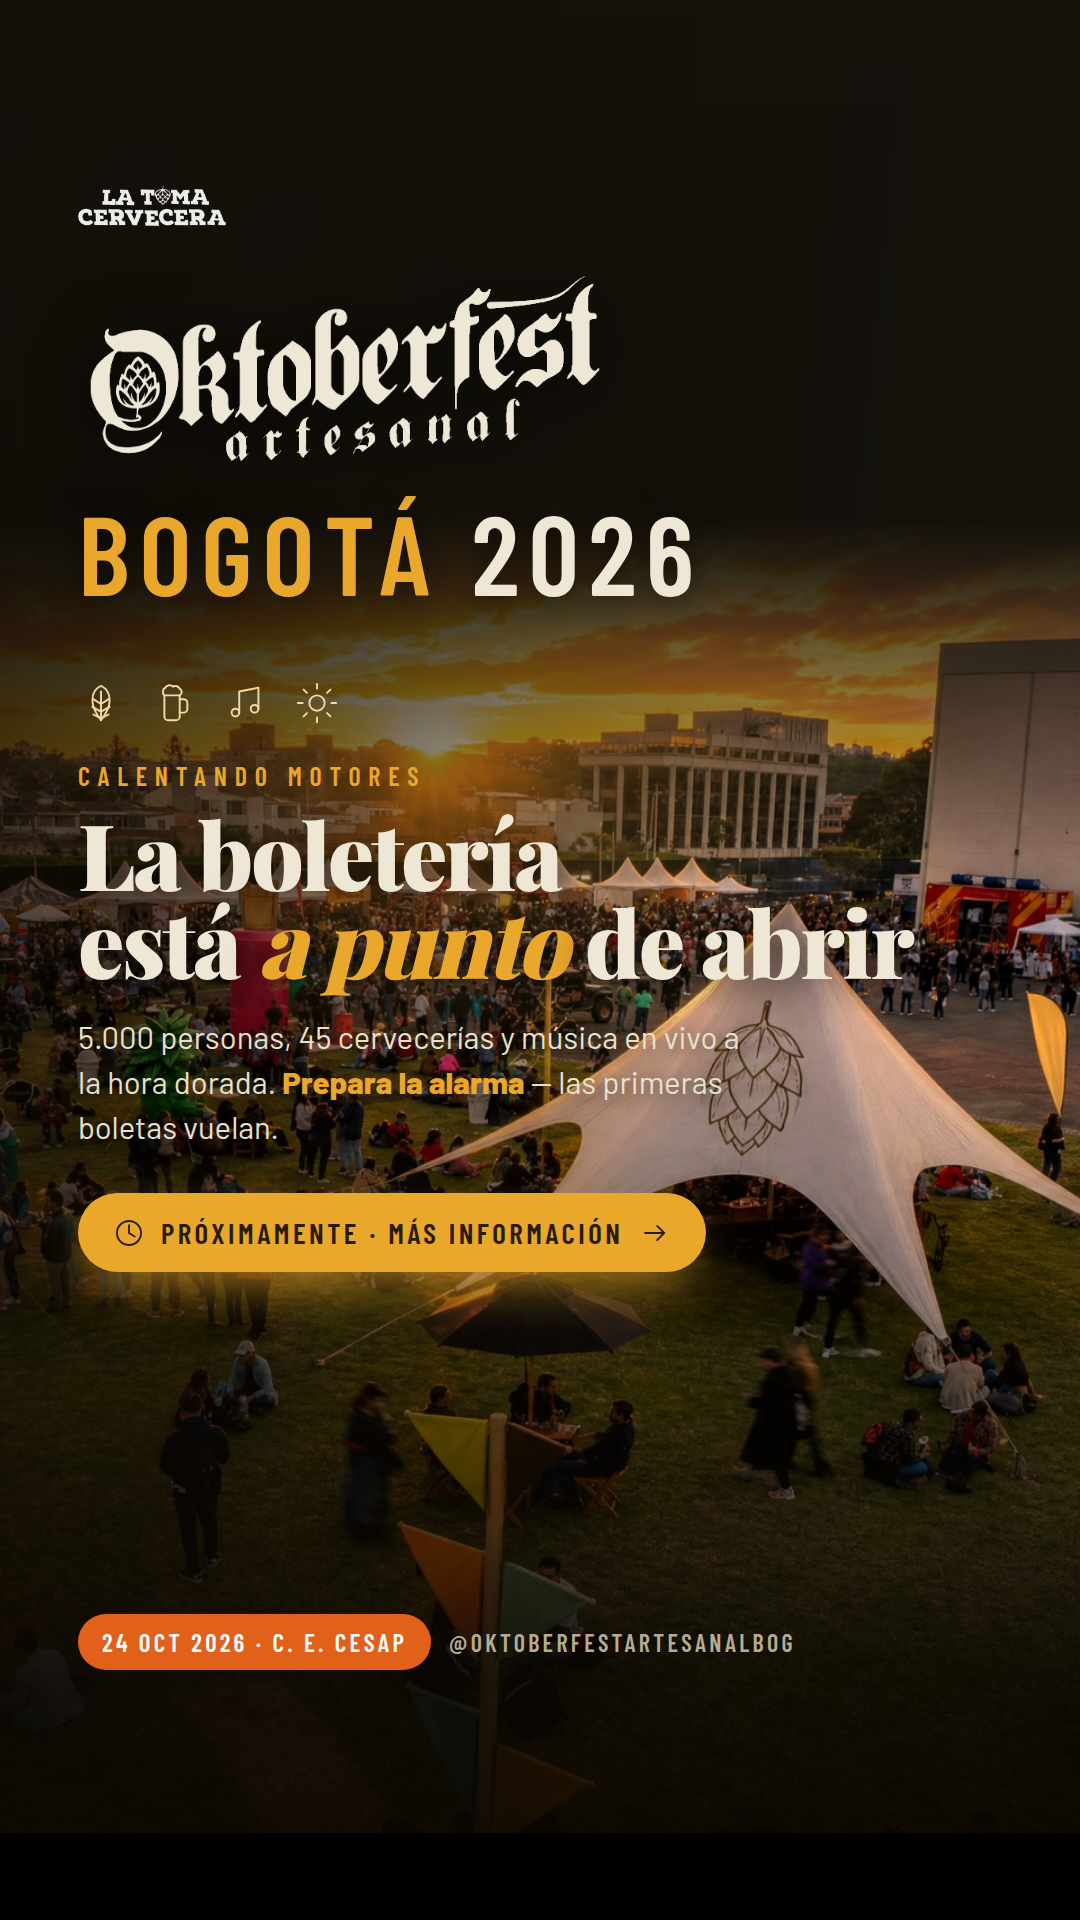
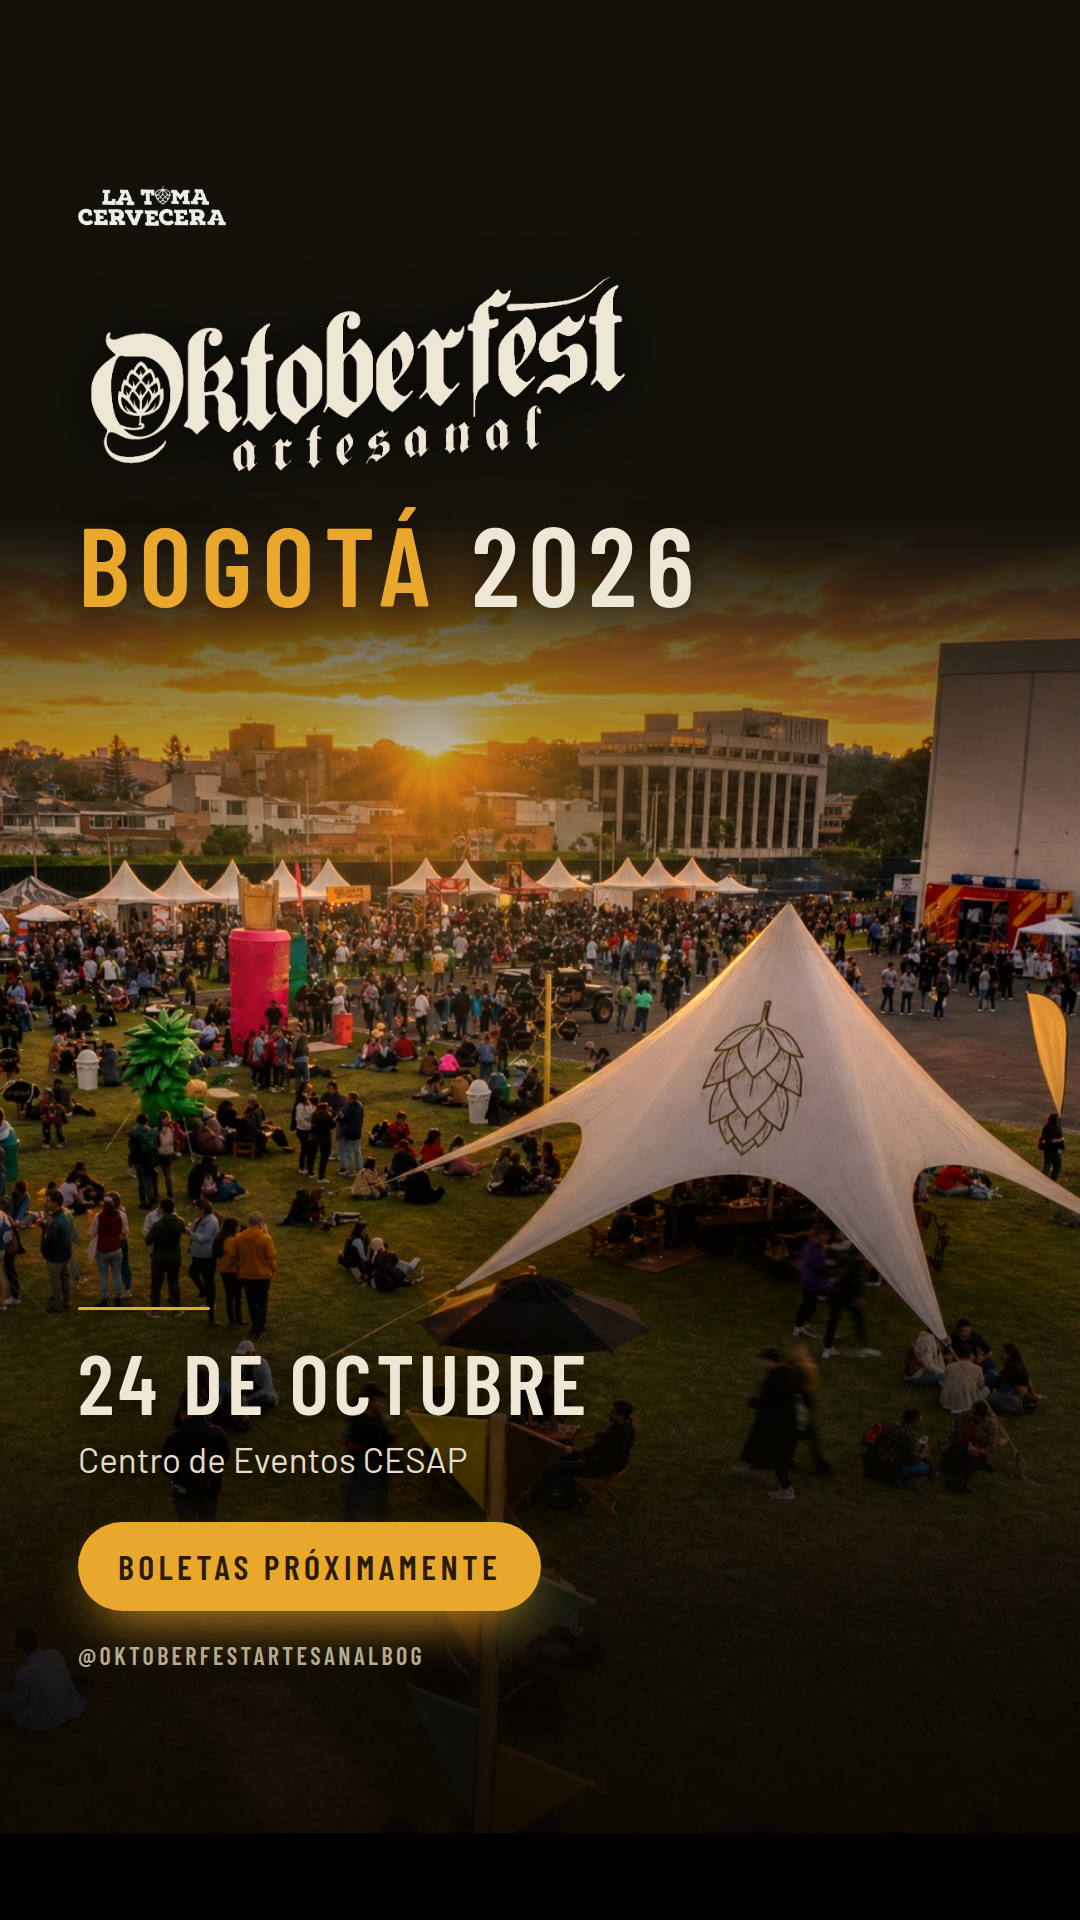
design(bogota): historia al minimo comercial
Fuera el titular, el cuerpo de texto, el eyebrow y la fila de pictogramas.
Quedan cuatro datos: logotipo, Bogota 2026, fecha y lugar, y la pildora
"Boletas proximamente". Con menos tipografia se aligeran los velos y la
imagen madre recupera el atardecer completo.

Claude-Session: https://claude.ai/code/session_01FhN5se13VDhwY8xPmLCBMM

Changed region(s): [[0.0, 0.125, 0.8556, 0.875]]

diff --git a/historias-bogota/historia-boleteria.html b/historias-bogota/historia-boleteria.html
@@ -28,53 +28,39 @@ img{display:block;}
 .photo img{width:100%;height:100%;object-fit:cover;object-position:55% center;
   filter:saturate(1.08) contrast(1.04);}
 
-/* Calor del ocaso + velos de contraste (regla: nunca tipografía sobre cielo limpio) */
+/* Calor del ocaso + velos de contraste, ahora mínimos: hay poca tipografía */
 .glow{position:absolute;inset:0;
-  background:radial-gradient(58% 24% at 40% 41%,rgba(244,196,90,.26),transparent 72%);}
+  background:radial-gradient(58% 24% at 40% 41%,rgba(244,196,90,.24),transparent 72%);}
 .veil{position:absolute;inset:0;background:
-  linear-gradient(180deg,rgba(20,17,11,.94) 0%,rgba(20,17,11,.62) 20%,rgba(20,17,11,.12) 36%,transparent 46%),
-  linear-gradient(96deg,rgba(12,8,3,.72) 0%,rgba(12,8,3,.38) 34%,rgba(12,8,3,.06) 62%,transparent 80%),
-  linear-gradient(0deg,rgba(10,6,2,.96) 0%,rgba(10,6,2,.84) 13%,rgba(10,6,2,.34) 30%,transparent 46%);}
+  linear-gradient(180deg,rgba(20,17,11,.94) 0%,rgba(20,17,11,.60) 20%,rgba(20,17,11,.10) 36%,transparent 46%),
+  linear-gradient(0deg,rgba(10,6,2,.96) 0%,rgba(10,6,2,.86) 16%,rgba(10,6,2,.40) 33%,transparent 48%);}
 
 .in{position:absolute;inset:0;z-index:3;display:flex;flex-direction:column;
   padding:186px 78px 250px;}
 
 /* ── Masthead: sello productor · logotipo · ciudad ── */
 .sello{align-self:flex-start;height:40px;width:auto;opacity:.92;}
-.brand{align-self:flex-start;width:534px;height:auto;margin-top:36px;
+.brand{align-self:flex-start;width:560px;height:auto;margin-top:36px;
   filter:drop-shadow(0 8px 30px rgba(0,0,0,.75));}
 .city{margin-top:26px;font-family:'Barlow Condensed',Barlow,sans-serif;font-weight:700;
   font-size:112px;line-height:.9;letter-spacing:.085em;text-transform:uppercase;color:var(--gold);
   text-shadow:0 6px 34px rgba(0,0,0,.6);}
 .city span{color:var(--cream);}
 
-/* ── Mensaje ── */
-.msg{margin-top:78px;}
-.picto{display:flex;gap:26px;color:#F4D9A8;}
-.picto svg{width:46px;height:46px;}
-.eyebrow{margin-top:34px;font-family:'Barlow Condensed',Barlow,sans-serif;font-size:26px;font-weight:600;
-  letter-spacing:.3em;text-transform:uppercase;color:var(--gold);}
-h1{margin-top:18px;font-family:'Playfair Display',Georgia,serif;font-weight:900;
-  font-size:92px;line-height:.96;letter-spacing:-.025em;
-  text-shadow:0 6px 38px rgba(0,0,0,.65);}
-h1 em{font-style:italic;color:var(--gold);}
-.lede{margin-top:28px;max-width:680px;font-size:31px;line-height:1.46;color:#E8E1CE;
-  text-shadow:0 3px 20px rgba(0,0,0,.75);}
-.lede b{color:var(--gold);font-weight:700;}
-
-.cta{margin-top:44px;display:inline-flex;align-self:flex-start;align-items:center;gap:15px;
-  background:var(--gold);color:#2A1B06;border-radius:999px;padding:22px 34px;
+/* ── Cierre: cuándo, dónde y boletas ── */
+.foot{margin-top:auto;}
+.rule{width:132px;height:3px;background:var(--gold);border-radius:2px;}
+.when{margin-top:30px;font-family:'Barlow Condensed',Barlow,sans-serif;font-weight:700;
+  font-size:84px;line-height:1;letter-spacing:.055em;text-transform:uppercase;color:var(--cream);
+  text-shadow:0 5px 30px rgba(0,0,0,.8);}
+.where{margin-top:14px;font-size:35px;line-height:1.25;color:#E4DCC8;
+  text-shadow:0 3px 20px rgba(0,0,0,.8);}
+.tickets{margin-top:40px;display:inline-flex;align-items:center;
+  background:var(--gold);color:#2A1B06;border-radius:999px;padding:24px 40px;
   box-shadow:0 22px 54px -18px rgba(233,167,44,.95);}
-.cta svg{width:34px;height:34px;flex:none;}
-.cta span{font-family:'Barlow Condensed',Barlow,sans-serif;font-size:29px;font-weight:700;
-  letter-spacing:.12em;text-transform:uppercase;white-space:nowrap;}
-
-/* ── Pie: fecha y canal ── */
-.foot{margin-top:auto;display:flex;align-items:center;gap:18px;flex-wrap:wrap;}
-.dt{font-family:'Barlow Condensed',Barlow,sans-serif;font-size:25px;font-weight:700;
-  letter-spacing:.13em;text-transform:uppercase;color:#fff;background:var(--ember);
-  border-radius:999px;padding:13px 24px;}
-.handle{font-family:'Barlow Condensed',Barlow,sans-serif;font-size:24px;font-weight:600;
+.tickets span{font-family:'Barlow Condensed',Barlow,sans-serif;font-size:34px;font-weight:700;
+  letter-spacing:.13em;text-transform:uppercase;white-space:nowrap;}
+.handle{margin-top:30px;font-family:'Barlow Condensed',Barlow,sans-serif;font-size:24px;font-weight:600;
   letter-spacing:.14em;text-transform:uppercase;color:var(--cream-soft);}
 </style>
 
@@ -88,18 +74,12 @@ h1 em{font-style:italic;color:var(--gold);}
[1 lines of base64/hex data omitted]
     <div class="city">Bogotá <span>2026</span></div>
 
-    <div class="msg">
-      <div class="picto"><svg viewBox="0 0 48 48" fill="none" stroke="currentColor" stroke-width="2" stroke-linecap="round" stroke-linejoin="round"><path d="M24 6c6 3 9 8 9 15 0 9-6 17-9 21-3-4-9-12-9-21 0-7 3-12 9-15z"/><path d="M24 12v30M16 20l8 5 8-5M15 28l9 5 9-5M16 36l8 4 8-4"/></svg><svg viewBox="0 0 48 48" fill="none" stroke="currentColor" stroke-width="2" stroke-linecap="round" stroke-linejoin="round"><path d="M15 16h16v22a4 4 0 0 1-4 4H19a4 4 0 0 1-4-4z"/><path d="M31 20h4a4 4 0 0 1 4 4v6a4 4 0 0 1-4 4h-4"/><path d="M15 16a5 5 0 0 1 1-8 5 5 0 0 1 8-1 5 5 0 0 1 7 2 4 4 0 0 1 0 7"/></svg><svg viewBox="0 0 48 48" fill="none" stroke="currentColor" stroke-width="2" stroke-linecap="round" stroke-linejoin="round"><path d="M18 34V12l20-4v22"/><circle cx="14" cy="34" r="4"/><circle cx="34" cy="30" r="4"/></svg><svg viewBox="0 0 48 48" fill="none" stroke="currentColor" stroke-width="2" stroke-linecap="round" stroke-linejoin="round"><circle cx="24" cy="24" r="8"/><path d="M24 4v5M24 39v5M4 24h5M39 24h5M10 10l3.5 3.5M34.5 34.5 38 38M38 10l-3.5 3.5M13.5 34.5 10 38"/></svg></div>
-      <div class="eyebrow">Calentando motores</div>
-      <h1>La boletería<br>está <em>a punto</em> de abrir</h1>
-      <p class="lede">5.000 personas, 45 cervecerías y música en vivo a la hora dorada.
-        <b>Prepara la alarma</b> — las primeras boletas vuelan.</p>
-      <div class="cta"><svg viewBox="0 0 48 48" fill="none" stroke="currentColor" stroke-width="2.6" stroke-linecap="round" stroke-linejoin="round"><circle cx="24" cy="24" r="17"/><path d="M24 13v11l8 5"/></svg><span>Próximamente · Más información</span><svg viewBox="0 0 48 48" fill="none" stroke="currentColor" stroke-width="2.6" stroke-linecap="round" stroke-linejoin="round"><path d="M10 24h27M27 14l10 10-10 10"/></svg></div>
-    </div>
-
     <div class="foot">
-      <span class="dt">24 Oct 2026 · C. E. CESAP</span>
-      <span class="handle">@oktoberfestartesanalbog</span>
+      <div class="rule"></div>
+      <div class="when">24 de octubre</div>
+      <p class="where">Centro de Eventos CESAP</p>
+      <div class="tickets"><span>Boletas próximamente</span></div>
+      <div class="handle">@oktoberfestartesanalbog</div>
     </div>
   </div>
 </div>

diff --git a/historias-bogota/build-historia-boleteria.py b/historias-bogota/build-historia-boleteria.py
@@ -2,11 +2,11 @@
 # -*- coding: utf-8 -*-
 """
 Historia 9:16 (1080x1920) — Oktoberfest Artesanal Bogotá 2026
-Teaser de calentamiento previo al lanzamiento de boletería.
+Anuncio de boletería próximamente.
 
-Construida sobre el Sistema de Diseño Bogotá:
-imagen madre a la hora dorada, paleta del ocaso, Playfair/Barlow,
-iconografía de línea y logotipo blackletter en monocromo crema.
+Cuatro datos y nada más: logotipo, ciudad, fecha y lugar, boletas próximamente.
+Construida sobre el Sistema de Diseño Bogotá: imagen madre a la hora dorada,
+paleta del ocaso, Playfair/Barlow y logotipo blackletter en monocromo crema.
 """
 import base64
 import pathlib
@@ -27,15 +27,6 @@ hero = data_uri("hero-sunset.jpg", "image/jpeg")
 okt = data_uri("okt-logo-crema.png", "image/png")
 latoma = data_uri("latoma-blanco.png", "image/png")
 fonts_css = (AS / "fonts.css").read_text(encoding="utf-8")
-
-# Iconografía del sistema: línea simple, un solo trazo, currentColor.
-STROKE = 'fill="none" stroke="currentColor" stroke-width="2" stroke-linecap="round" stroke-linejoin="round"'
-HOP = f'<svg viewBox="0 0 48 48" {STROKE}><path d="M24 6c6 3 9 8 9 15 0 9-6 17-9 21-3-4-9-12-9-21 0-7 3-12 9-15z"/><path d="M24 12v30M16 20l8 5 8-5M15 28l9 5 9-5M16 36l8 4 8-4"/></svg>'
-BEER = f'<svg viewBox="0 0 48 48" {STROKE}><path d="M15 16h16v22a4 4 0 0 1-4 4H19a4 4 0 0 1-4-4z"/><path d="M31 20h4a4 4 0 0 1 4 4v6a4 4 0 0 1-4 4h-4"/><path d="M15 16a5 5 0 0 1 1-8 5 5 0 0 1 8-1 5 5 0 0 1 7 2 4 4 0 0 1 0 7"/></svg>'
-SUN = f'<svg viewBox="0 0 48 48" {STROKE}><circle cx="24" cy="24" r="8"/><path d="M24 4v5M24 39v5M4 24h5M39 24h5M10 10l3.5 3.5M34.5 34.5 38 38M38 10l-3.5 3.5M13.5 34.5 10 38"/></svg>'
-MUSIC = f'<svg viewBox="0 0 48 48" {STROKE}><path d="M18 34V12l20-4v22"/><circle cx="14" cy="34" r="4"/><circle cx="34" cy="30" r="4"/></svg>'
-CLOCK = f'<svg viewBox="0 0 48 48" {STROKE.replace("2", "2.6", 1)}><circle cx="24" cy="24" r="17"/><path d="M24 13v11l8 5"/></svg>'
-ARROW = f'<svg viewBox="0 0 48 48" {STROKE.replace("2", "2.6", 1)}><path d="M10 24h27M27 14l10 10-10 10"/></svg>'
 
 HTML = f"""<!doctype html>
 <meta charset="utf-8">
@@ -62,53 +53,39 @@ img{{display:block;}}
 .photo img{{width:100%;height:100%;object-fit:cover;object-position:55% center;
   filter:saturate(1.08) contrast(1.04);}}
 
-/* Calor del ocaso + velos de contraste (regla: nunca tipografía sobre cielo limpio) */
+/* Calor del ocaso + velos de contraste, ahora mínimos: hay poca tipografía */
 .glow{{position:absolute;inset:0;
-  background:radial-gradient(58% 24% at 40% 41%,rgba(244,196,90,.26),transparent 72%);}}
+  background:radial-gradient(58% 24% at 40% 41%,rgba(244,196,90,.24),transparent 72%);}}
 .veil{{position:absolute;inset:0;background:
-  linear-gradient(180deg,rgba(20,17,11,.94) 0%,rgba(20,17,11,.62) 20%,rgba(20,17,11,.12) 36%,transparent 46%),
-  linear-gradient(96deg,rgba(12,8,3,.72) 0%,rgba(12,8,3,.38) 34%,rgba(12,8,3,.06) 62%,transparent 80%),
-  linear-gradient(0deg,rgba(10,6,2,.96) 0%,rgba(10,6,2,.84) 13%,rgba(10,6,2,.34) 30%,transparent 46%);}}
+  linear-gradient(180deg,rgba(20,17,11,.94) 0%,rgba(20,17,11,.60) 20%,rgba(20,17,11,.10) 36%,transparent 46%),
+  linear-gradient(0deg,rgba(10,6,2,.96) 0%,rgba(10,6,2,.86) 16%,rgba(10,6,2,.40) 33%,transparent 48%);}}
 
 .in{{position:absolute;inset:0;z-index:3;display:flex;flex-direction:column;
   padding:186px 78px 250px;}}
 
 /* ── Masthead: sello productor · logotipo · ciudad ── */
 .sello{{align-self:flex-start;height:40px;width:auto;opacity:.92;}}
-.brand{{align-self:flex-start;width:534px;height:auto;margin-top:36px;
+.brand{{align-self:flex-start;width:560px;height:auto;margin-top:36px;
   filter:drop-shadow(0 8px 30px rgba(0,0,0,.75));}}
 .city{{margin-top:26px;font-family:'Barlow Condensed',Barlow,sans-serif;font-weight:700;
   font-size:112px;line-height:.9;letter-spacing:.085em;text-transform:uppercase;color:var(--gold);
   text-shadow:0 6px 34px rgba(0,0,0,.6);}}
 .city span{{color:var(--cream);}}
 
-/* ── Mensaje ── */
-.msg{{margin-top:78px;}}
-.picto{{display:flex;gap:26px;color:#F4D9A8;}}
-.picto svg{{width:46px;height:46px;}}
-.eyebrow{{margin-top:34px;font-family:'Barlow Condensed',Barlow,sans-serif;font-size:26px;font-weight:600;
-  letter-spacing:.3em;text-transform:uppercase;color:var(--gold);}}
-h1{{margin-top:18px;font-family:'Playfair Display',Georgia,serif;font-weight:900;
-  font-size:92px;line-height:.96;letter-spacing:-.025em;
-  text-shadow:0 6px 38px rgba(0,0,0,.65);}}
-h1 em{{font-style:italic;color:var(--gold);}}
-.lede{{margin-top:28px;max-width:680px;font-size:31px;line-height:1.46;color:#E8E1CE;
-  text-shadow:0 3px 20px rgba(0,0,0,.75);}}
-.lede b{{color:var(--gold);font-weight:700;}}
-
-.cta{{margin-top:44px;display:inline-flex;align-self:flex-start;align-items:center;gap:15px;
-  background:var(--gold);color:#2A1B06;border-radius:999px;padding:22px 34px;
+/* ── Cierre: cuándo, dónde y boletas ── */
+.foot{{margin-top:auto;}}
+.rule{{width:132px;height:3px;background:var(--gold);border-radius:2px;}}
+.when{{margin-top:30px;font-family:'Barlow Condensed',Barlow,sans-serif;font-weight:700;
+  font-size:84px;line-height:1;letter-spacing:.055em;text-transform:uppercase;color:var(--cream);
+  text-shadow:0 5px 30px rgba(0,0,0,.8);}}
+.where{{margin-top:14px;font-size:35px;line-height:1.25;color:#E4DCC8;
+  text-shadow:0 3px 20px rgba(0,0,0,.8);}}
+.tickets{{margin-top:40px;display:inline-flex;align-items:center;
+  background:var(--gold);color:#2A1B06;border-radius:999px;padding:24px 40px;
   box-shadow:0 22px 54px -18px rgba(233,167,44,.95);}}
-.cta svg{{width:34px;height:34px;flex:none;}}
-.cta span{{font-family:'Barlow Condensed',Barlow,sans-serif;font-size:29px;font-weight:700;
-  letter-spacing:.12em;text-transform:uppercase;white-space:nowrap;}}
-
-/* ── Pie: fecha y canal ── */
-.foot{{margin-top:auto;display:flex;align-items:center;gap:18px;flex-wrap:wrap;}}
-.dt{{font-family:'Barlow Condensed',Barlow,sans-serif;font-size:25px;font-weight:700;
-  letter-spacing:.13em;text-transform:uppercase;color:#fff;background:var(--ember);
-  border-radius:999px;padding:13px 24px;}}
-.handle{{font-family:'Barlow Condensed',Barlow,sans-serif;font-size:24px;font-weight:600;
+.tickets span{{font-family:'Barlow Condensed',Barlow,sans-serif;font-size:34px;font-weight:700;
+  letter-spacing:.13em;text-transform:uppercase;white-space:nowrap;}}
+.handle{{margin-top:30px;font-family:'Barlow Condensed',Barlow,sans-serif;font-size:24px;font-weight:600;
   letter-spacing:.14em;text-transform:uppercase;color:var(--cream-soft);}}
 </style>
 
@@ -122,18 +99,12 @@ h1 em{{font-style:italic;color:var(--gold);}}
     <img class="brand" src="{okt}" alt="Oktoberfest Artesanal">
     <div class="city">Bogotá <span>2026</span></div>
 
-    <div class="msg">
-      <div class="picto">{HOP}{BEER}{MUSIC}{SUN}</div>
-      <div class="eyebrow">Calentando motores</div>
-      <h1>La boletería<br>está <em>a punto</em> de abrir</h1>
-      <p class="lede">5.000 personas, 45 cervecerías y música en vivo a la hora dorada.
-        <b>Prepara la alarma</b> — las primeras boletas vuelan.</p>
-      <div class="cta">{CLOCK}<span>Próximamente · Más información</span>{ARROW}</div>
-    </div>
-
     <div class="foot">
-      <span class="dt">24 Oct 2026 · C. E. CESAP</span>
-      <span class="handle">@oktoberfestartesanalbog</span>
+      <div class="rule"></div>
+      <div class="when">24 de octubre</div>
+      <p class="where">Centro de Eventos CESAP</p>
+      <div class="tickets"><span>Boletas próximamente</span></div>
+      <div class="handle">@oktoberfestartesanalbog</div>
     </div>
   </div>
 </div>

diff --git a/historias-bogota/README.md b/historias-bogota/README.md
@@ -7,7 +7,10 @@ Piezas verticales 9:16 (1080 × 1920) construidas sobre el **Sistema de Diseño 
 
 | Archivo | Uso |
 |---|---|
-| `historia-boleteria-bogota-2026.png` | Historia de calentamiento previa al lanzamiento de boletería |
+| `historia-boleteria-bogota-2026.png` | Historia previa al lanzamiento de boletería |
+
+La pieza dice cuatro cosas y nada más: **logotipo**, **Bogotá 2026**, **fecha y lugar**,
+**boletas próximamente**. Sin titulares ni cuerpo de texto — la imagen madre hace el resto.
 
 ## Cómo se regenera
 
